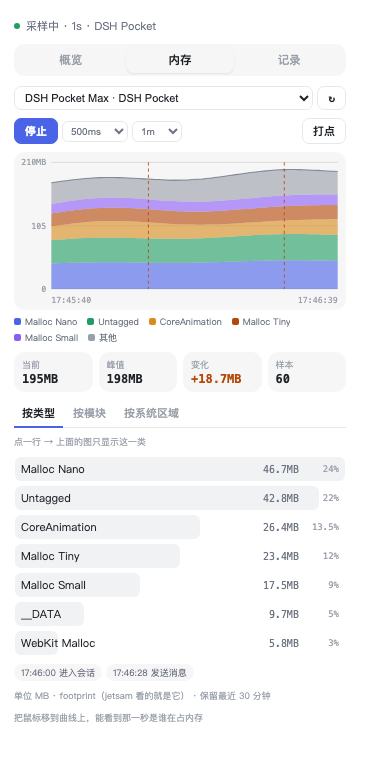
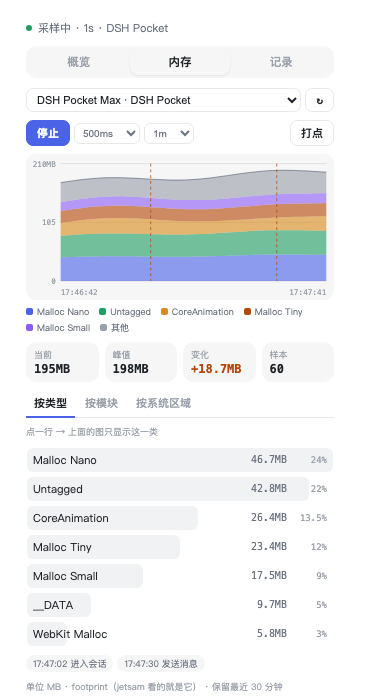
style(panel): 左右留白 14px，与页签栏视觉对齐；概览过滤 0 点记录

diff --git a/client.js b/client.js
@@ -581,10 +581,10 @@ window.__ModuleLoader__.load({
               ? e("div", { style: { fontSize: 8, fontFamily: MONO, color: FG3, marginTop: 6, wordBreak: "break-all" } }, pf.dir + "/report.md")
               : null),
 
-          props.runs && props.runs.length
+          props.runs && props.runs.filter(function (run) { return run.events > 0; }).length
             ? e("div", { style: { display: "flex", flexDirection: "column", gap: 3 } },
               e("div", { style: { fontSize: 12, fontWeight: 600, color: FG2 } }, t("panel.records.title")),
-              props.runs.slice(0, 3).map(function (run) {
+              props.runs.filter(function (run) { return run.events > 0; }).slice(0, 3).map(function (run) {
                 return e("div", { key: run.runId, style: { display: "flex", alignItems: "center", gap: 6, background: BG2, borderRadius: 10, padding: "6px 10px" } },
                   e("span", { style: { fontSize: 9, fontFamily: MONO, color: FG3 } }, props.clock(run.from)),
                   e("span", { style: { fontSize: 10, color: FG2, flex: 1 } }, run.events + " " + t("panel.records.points")),
@@ -914,7 +914,7 @@ window.__ModuleLoader__.load({
           };
         };
 
-        return e("div", { style: { display: "flex", flexDirection: "column", gap: 10, padding: "6px 2px 16px", color: FG, minWidth: 0, width: "100%", boxSizing: "border-box", overflowX: "hidden" } },
+        return e("div", { style: { display: "flex", flexDirection: "column", gap: 10, padding: "8px 14px 20px", color: FG, minWidth: 0, width: "100%", boxSizing: "border-box", overflowX: "hidden" } },
 
           e("div", { style: { display: "flex", alignItems: "center", gap: 6 } },
             e("span", { style: { width: 6, height: 6, borderRadius: 99, background: running ? "#1f9d63" : FG3 } }),

diff --git a/client/40-panel.js b/client/40-panel.js
@@ -42,10 +42,10 @@
           ? e("div", { style: { fontSize: 8, fontFamily: MONO, color: FG3, marginTop: 6, wordBreak: "break-all" } }, pf.dir + "/report.md")
           : null),
 
-      props.runs && props.runs.length
+      props.runs && props.runs.filter(function (run) { return run.events > 0; }).length
         ? e("div", { style: { display: "flex", flexDirection: "column", gap: 3 } },
           e("div", { style: { fontSize: 12, fontWeight: 600, color: FG2 } }, t("panel.records.title")),
-          props.runs.slice(0, 3).map(function (run) {
+          props.runs.filter(function (run) { return run.events > 0; }).slice(0, 3).map(function (run) {
             return e("div", { key: run.runId, style: { display: "flex", alignItems: "center", gap: 6, background: BG2, borderRadius: 10, padding: "6px 10px" } },
               e("span", { style: { fontSize: 9, fontFamily: MONO, color: FG3 } }, props.clock(run.from)),
               e("span", { style: { fontSize: 10, color: FG2, flex: 1 } }, run.events + " " + t("panel.records.points")),
@@ -375,7 +375,7 @@
       };
     };
 
-    return e("div", { style: { display: "flex", flexDirection: "column", gap: 10, padding: "6px 2px 16px", color: FG, minWidth: 0, width: "100%", boxSizing: "border-box", overflowX: "hidden" } },
+    return e("div", { style: { display: "flex", flexDirection: "column", gap: 10, padding: "8px 14px 20px", color: FG, minWidth: 0, width: "100%", boxSizing: "border-box", overflowX: "hidden" } },
 
       e("div", { style: { display: "flex", alignItems: "center", gap: 6 } },
         e("span", { style: { width: 6, height: 6, borderRadius: 99, background: running ? "#1f9d63" : FG3 } }),

diff --git a/docs/measurements/unknown/2026-11-14-1747-run.md b/docs/measurements/unknown/2026-11-14-1747-run.md
@@ -1,0 +1,47 @@
+# 采集 20261114-1730
+
+> **项目**：unknown
+> **时间**：2026-11-14 17:47
+> **设备**：Ruska的iPhone（真机）
+> **采集**：dsh-ios-diag run 20261114-1730
+> **原始数据**：/Users/ruska/projects/dsh-plugins/dsh-ios-diag/docs/measurements/_runs/20261114-1730
+
+## 摘要
+
+- 事件 12 条；内存样本 11 个，打点 1 个。
+- 内存 0.1 → 42.5 MB（含启动爬坡；峰值 51.8 MB）。
+
+## 数据
+
+| 指标 | 值 |
+| --- | --- |
+| 事件总数 | 12 |
+| 内存样本 | 11 |
+| 打点 | 1 |
+| 日志 | 0 |
+| 日志错误 | 0 |
+| 链接（事实/推断） | 12 / 11 |
+| 内存 起点 / 终点 | 0.1 / 42.5 MB |
+| 内存 峰值 / 谷值 | 51.8 / 0.1 MB |
+| 内存 变化 | +42.4 MB（启动爬坡，%不适用） |
+
+## 异常与疑点
+
+- 首个样本只有 0.1 MB（启动爬坡），增长百分比不具参考意义；看峰值 51.8 MB / 末值 42.5 MB。
+- 峰值 51.8 MB 与谷值 0.1 MB 相差 51.7 MB。
+- 打了 1 个点：真机录制 10s。
+- 有 11 条时间推断链接（置信度 0.5），它们只是「时间挨着」，不能当因果。
+
+## 给被测项目的排查建议
+
+1. 原始数据在 `/Users/ruska/projects/dsh-plugins/dsh-ios-diag/docs/measurements/_runs/20261114-1730`（events.jsonl / links.jsonl），可用 `ios_events_query` 按 id 查一跳。
+2. 本报告由 dsh-ios-diag 生成；被测项目未做任何修改。
+
+## 复现方式
+
+```bash
+# 重新导出（采样中的会话）
+ios_events_export { lastSeconds: 120 }
+# 查这份 run
+ios_events_query { dir: "/Users/ruska/projects/dsh-plugins/dsh-ios-diag/docs/measurements/_runs/20261114-1730" }
+```
